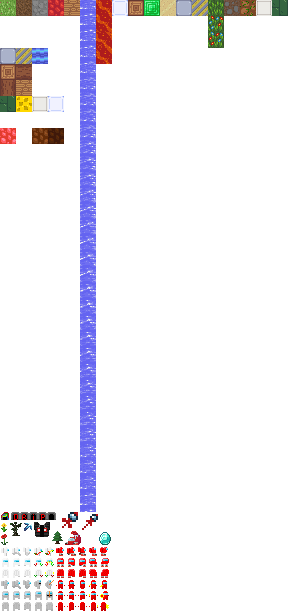
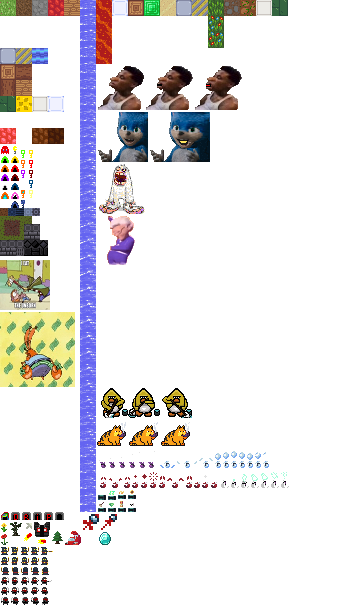
Ui fix. Fix entity load

Changed region(s): [[0.0, 0.0, 1.0, 1.0]]

diff --git a/Editor.cs b/Editor.cs
@@ -28,7 +28,7 @@ namespace AxMC_Realms_ME
         public static int MapWidth = 256, MapHeight = 256;
         public static byte[] ByteMap;
         public static Entity[] Entities;
-        public static int NumTiles = 18;
+        public static int NumTiles;
 
         private GraphicsDeviceManager _graphics;
         private SpriteBatch _spriteBatch;
@@ -108,7 +108,7 @@ namespace AxMC_Realms_ME
 
             Entity.Load("GameData/EntityData.json");
             Tile.Initialize("GameData/Tiles.json");
-
+            NumTiles = Tile.Data.Length;
             Camera.Init(GraphicsDevice.Viewport.Width, GraphicsDevice.Viewport.Height);
 
             OnResize(null, null);
@@ -241,7 +241,7 @@ namespace AxMC_Realms_ME
 
                 ByteMap[index] = (byte)choosedBlock;
                 MapTiles[index] = new Tile();
-                
+
                 if (startY != EndY)
                 {
                     startY += d.Y;
@@ -606,19 +606,18 @@ namespace AxMC_Realms_ME
             // UI spritebatch
             _spriteBatch.Begin(samplerState: SamplerState.PointClamp);
 
-            var BlockinvPos = new Vector2(Window.ClientBounds.Width - 16 * Entity.SRect.Length - 10, 36); // 10 is small offset, so it look cool :sunglasses:
+            var BlockinvPos = new Vector2(Window.ClientBounds.Width - 16 * Tile.Data.Length - 10, 36); // 10 is small offset, so it look cool :sunglasses:
 
             var offset = 0;
             for (int i = 0; i < Entity.SRect.Length; i++)
             {
-                _spriteBatch.Draw(TileSet, BlockinvPos + new Vector2(offset, 0), Entity.SRect[i], Color.White);
+                _spriteBatch.Draw(TileSet, BlockinvPos + new Vector2(offset, 0), Entity.SRect[i], Color.White, 0, Vector2.Zero, Entity.Scale[i], 0, 0);
                 offset += 16;
             }
-            //_spriteBatch.Draw(Entity.SpriteSheets, new Rectangle((int)BlockinvPos.X, (int)BlockinvPos.Y, 16 * Entity.SRect.Length, 16), Color.White);
 
-            BlockinvPos.X -= TileSet.Width;
+            BlockinvPos.X -= Tile.Data.Length * 16;
 
-            _spriteBatch.Draw(TileSet, BlockinvPos, new(0, 0, TileSet.Width, 16), Color.White);
+            _spriteBatch.Draw(TileSet, BlockinvPos, new(0, 0, Tile.Data.Length * 16, 16), Color.White);
             _spriteBatch.Draw(GridTile, BlockinvPos + new Vector2(choosedBlock * 16 - 1, -1), null, Color.Yellow, 0, Vector2.Zero, 1.125f, 0, 0);
 
             _spriteBatch.DrawString(Font, TMPos.ToString(), Vector2.Zero, Color.Black);

diff --git a/Map/Entity.cs b/Map/Entity.cs
@@ -1,6 +1,9 @@
-using Microsoft.Xna.Framework;
+using Anomalous.Entities;
+using Microsoft.Xna.Framework;
+using System;
 using System.IO;
 using System.Text.Json;
+using System.Text.Json.Serialization;
 
 namespace AxMC_Realms_ME.Map
 {
@@ -13,6 +16,7 @@ namespace AxMC_Realms_ME.Map
         Container,
         Projectile
     }
+    [JsonUnmappedMemberHandling(JsonUnmappedMemberHandling.Skip)]
     public struct EntityData
     {
         public int Id;
@@ -24,7 +28,7 @@ namespace AxMC_Realms_ME.Map
         public int Scale;
         public int Frames;
         public string Destination;
-        public int[] Drops;
+        public Loot[] Drops;
 
         public EntityType Type;
         public bool Collides;
@@ -33,15 +37,18 @@ namespace AxMC_Realms_ME.Map
     public class Entity
     {
         public static Rectangle[] SRect;
+        public static float[] Scale;
         public static EntityData[] Data;
 
         public static void Load(string Path)
         {
             Data = JsonSerializer.Deserialize<EntityData[]>(File.ReadAllText(Path), new JsonSerializerOptions() { IncludeFields = true });
             SRect = new Rectangle[Data.Length];
+            Scale = new float[Data.Length];
             for (int i = 0; i < Data.Length; i++)
             {
-                SRect[i] = Data[i].Source;
+                var rect = SRect[i] = Data[i].Source;
+                Scale[i] = MathF.Max(16f / rect.Width, 16f / rect.Height);
             }
         }
 

diff --git a/Map/Loot.cs b/Map/Loot.cs
@@ -1,0 +1,15 @@
+using System;
+
+namespace Anomalous.Entities
+{
+    public struct Loot
+    {
+        public ushort ItemId;
+        public float Chance;
+
+        public readonly bool Roll()
+        {
+            return Random.Shared.NextSingle() < Chance;
+        }
+    }
+}
